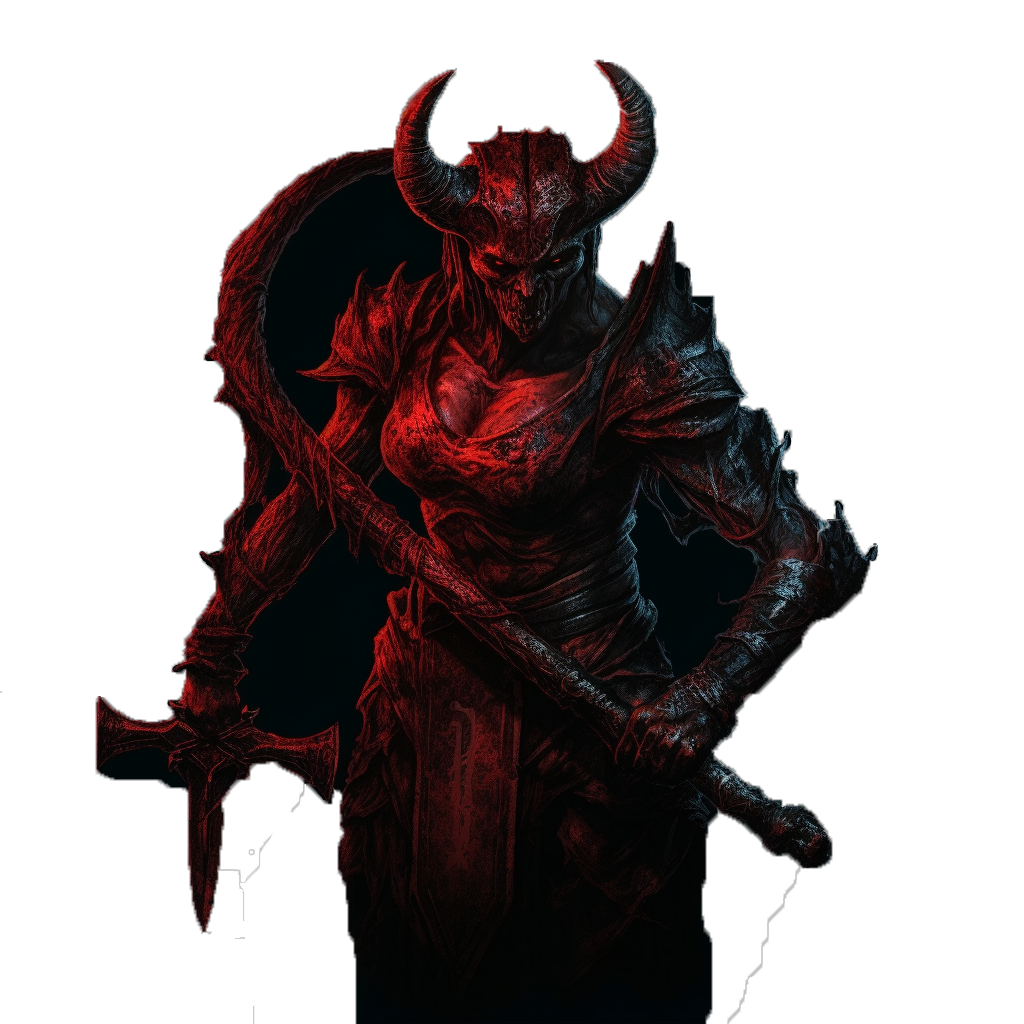
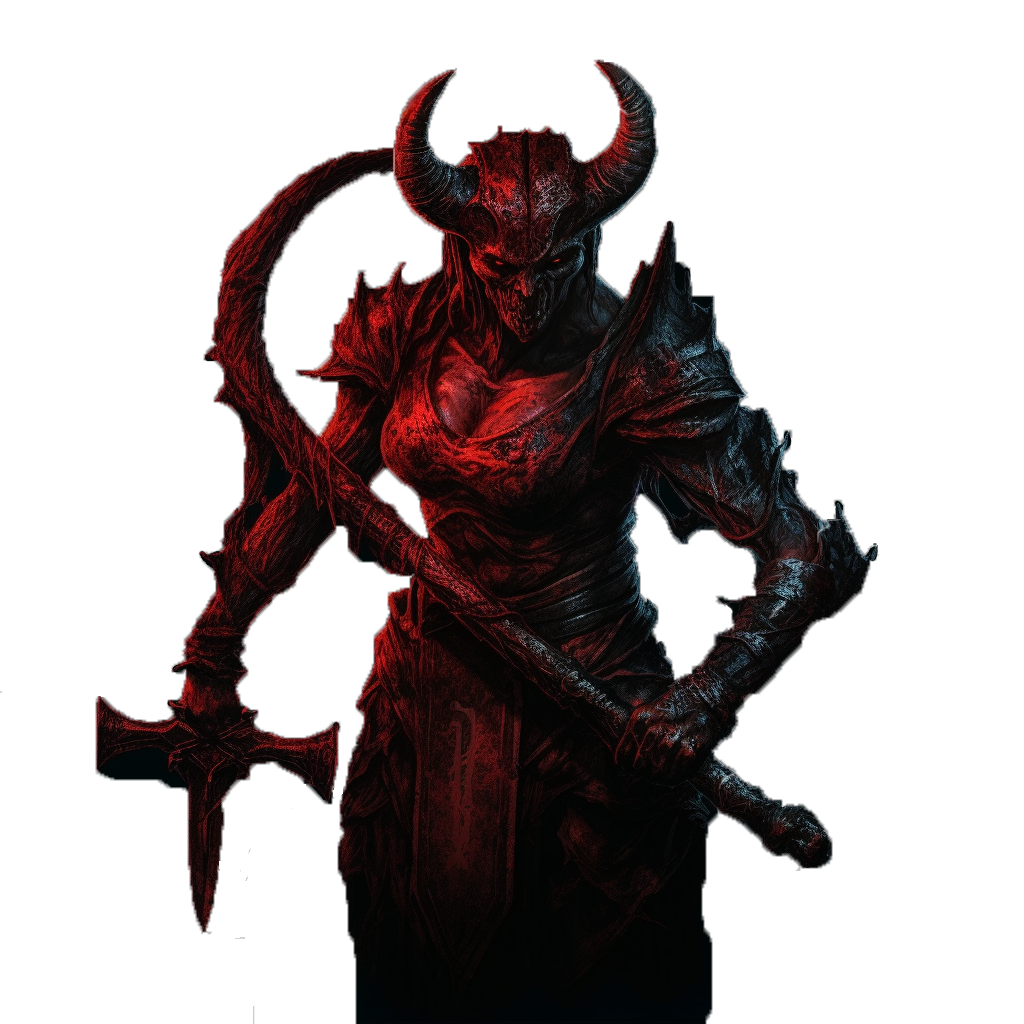
Added Image to Home

diff --git a/pages/homePage.js b/pages/homePage.js
@@ -1,54 +1,60 @@
-import React from "react";
-import Image from "next/image";
-import Link from "next/link";
+import React from "react"
+import Image from "next/image"
+import Link from "next/link"
+import Minotaur from "../public/Images/Minotaur_05.png"
 
 export default function HomePage() {
   return (
-    <div className="w-screen h-screen bg-black text-white">
-      <div>
-        <div className="bg-black text-white ">
-          <h1 style={{ fontSize: "26px" }}>
-            Welcome to Magic Mondays! The best place on the web to manage your
-            play group.
+    <div className='w-screen h-screen bg-black text-white flex'>
+      <div className='flex flex-col justify-between'>
+        <div>
+          <h1 className='text-lg w-72 leading-5 mb-10'>
+            Welcome to Magic Mondays! The best place on the web to manage your play group.
           </h1>
-          <Link href="/contact">
-            <div>Contact</div>
-          </Link>
-          <Link href="/user">
-            <div>User</div>
-          </Link>
-          <nav>
-            <ul>
-              <li>
-                <a href="#">Home</a>
-              </li>
-              <li>
-                <a href="#">About</a>
-              </li>
-              <li>
-                <a href="#">Contact</a>
-              </li>
-            </ul>
-          </nav>
+          <div className='bg-black text-white'>
+            <Link href='/contact'>
+              <div>Contact</div>
+            </Link>
+            <Link href='/user'>
+              <div>User</div>
+            </Link>
+            <nav>
+              <ul>
+                <li>
+                  <a href='#'>Home</a>
+                </li>
+                <li>
+                  <a href='#'>About</a>
+                </li>
+                <li>
+                  <a href='#'>Contact</a>
+                </li>
+              </ul>
+            </nav>
+          </div>
+          <br />
+          <h1>Sign In</h1>
+          <form action='#' method='post'>
+            <label htmlFor='username'>Username:</label>
+            <input type='text' id='username' name='username' />
+            <br />
+            <br />
+            <label htmlFor='password'>Password:</label>
+            <input type='password' id='password' name='password' />
+            <br />
+            <br />
+            <input type='submit' value='Sign In' />
+            <p>
+              Do not have an account? <a href='signUp'>Create one</a>
+            </p>
+          </form>
         </div>
-        <br />
-
-        <h1>Sign In</h1>
-        <form action="#" method="post">
-          <label for="username">Username:</label>
-          <input type="text" id="username" name="username" />
-          <br />
-          <br />
-          <label for="password">Password:</label>
-          <input type="password" id="password" name="password" />
-          <br />
-          <br />
-          <input type="submit" value="Sign In" />
-          <p>
-            Don't have an account? <a href="signUp">Create one</a>
-          </p>
-        </form>
+      </div>
+      <div className='mx-auto'>
+        <div>
+          <Image src={Minotaur} height={500} />
+        </div>
       </div>
     </div>
-  );
+  )
 }
